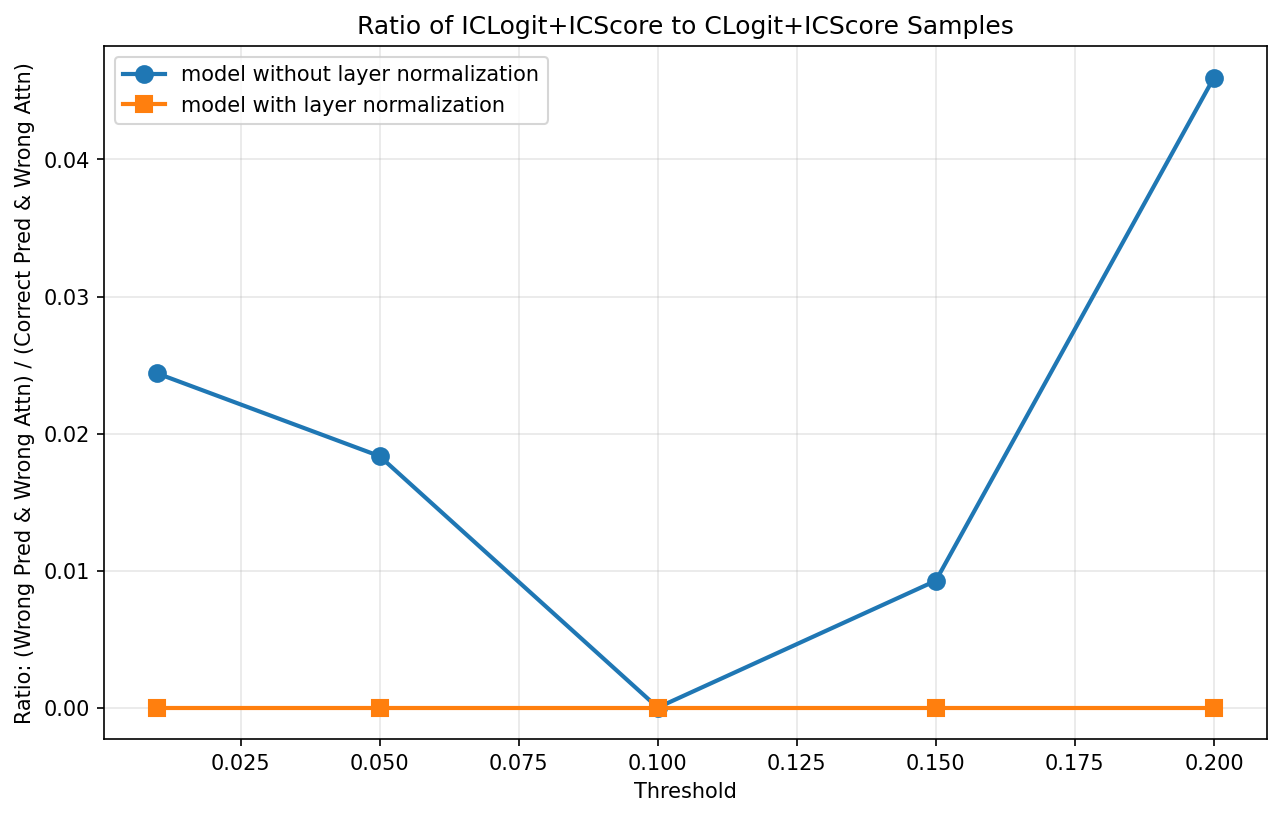
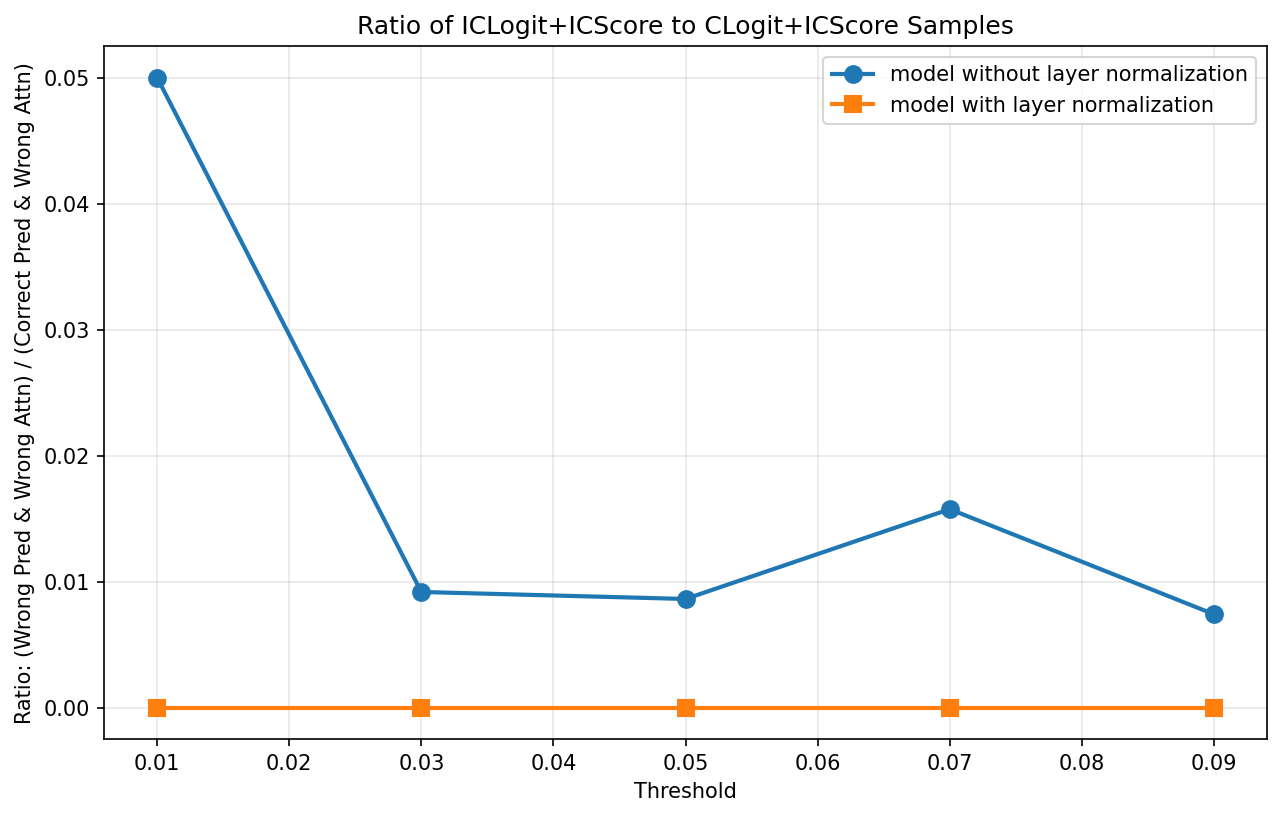
changes

diff --git a/intervention/intervention_per_intensity/compare_intensity.py b/intervention/intervention_per_intensity/compare_intensity.py
@@ -8,8 +8,6 @@ sys.path.insert(0, os.path.join(os.path.dirname(__file__), '..'))
 sys.path.insert(0, os.path.join(os.path.dirname(__file__), '../..'))
 
 from model_tbyt_4 import GPTConfig, GPT, GPTIntervention
-from checkpoint_utils import load_checkpoint
-from gpt_intervention_normalized import GPTInterventionNormalized
 import torch
 import matplotlib
 matplotlib.use('Agg')
@@ -33,9 +31,9 @@ vocab_size_1 = 128
 vocab_n_1 = vocab_size_1 - 1
 location_1 = 45
 
-config_1 = GPTConfig(block_size=block_size_1, vocab_size=vocab_size_1)
+config_1 = GPTConfig(block_size=block_size_1, vocab_size=vocab_size_1, with_layer_norm=False)
 model_1 = GPT(config_1)
-checkpoint_path_1 = os.path.join(os.path.dirname(__file__), '../../saved_models/dec28_tbyt_without-pos-embedding_n_embd:64_1head_layers:2_vocab_size:128_itr:60000_checkpoint.pt')
+checkpoint_path_1 = os.path.join(os.path.dirname(__file__), '../../saved_models/2026-03-14_18-40-26_vocab128/march14-withoutlayernorm-block_size:32-batch_size:4096-n_embd:64_head:1_layers:2_vocab_size:128_itr:60000_checkpoint.pt')
 model_1.load_state_dict(torch.load(checkpoint_path_1, map_location=device)['model'])
 model_1.to(device)
 model_1.eval()
@@ -75,13 +73,17 @@ print("\n" + "=" * 50)
 print("Testing model WITH layer normalization")
 print("=" * 50)
 
-checkpoint_path_2 = os.path.join(os.path.dirname(__file__), '../../Grid_training_without_duplicates/Final_N128_K16_L2_H1_E32_r4over1_npos1_mlp1_dup0_testK16_iters60000.pt')
-model_2, config_2 = load_checkpoint(checkpoint_path_2, device=device)
-model_2.eval()
-
-block_size_2 = config_2.block_size
-vocab_n_2 = config_2.vocab_size - 1
+block_size_2 = 32
+vocab_size_2 = 128
+vocab_n_2 = vocab_size_2 - 1
 location_2 = block_size_2 + 5
+
+config_2 = GPTConfig(block_size=block_size_2, vocab_size=vocab_size_2, with_layer_norm=True)
+model_2 = GPT(config_2)
+checkpoint_path_2 = os.path.join(os.path.dirname(__file__), '../../saved_models/2026-03-14_19-03-50_vocab128/march14-withlayernorm-block_size:32-batch_size:4096-n_embd:64_head:1_layers:2_vocab_size:128_itr:60000_checkpoint.pt')
+model_2.load_state_dict(torch.load(checkpoint_path_2, map_location=device)['model'])
+model_2.to(device)
+model_2.eval()
 
 def get_batch_2():
     x = torch.randperm(vocab_n_2)[:block_size_2]
@@ -96,7 +98,7 @@ for intensity in intensity_values:
             break
         idx = get_batch_2().to(device)
         try:
-            intervention_model = GPTInterventionNormalized(model_2, idx)
+            intervention_model = GPTIntervention(model_2, idx)
             intervention_model.intervent_attention(
                 attention_layer_num=0, location=location_2,
                 unsorted_lb=5, unsorted_ub=5, unsorted_lb_num=0, unsorted_ub_num=1,

diff --git a/next_num_statistics.py b/next_num_statistics.py
@@ -12,8 +12,12 @@ device = 'cuda'
 config = GPTConfig(block_size=block_size, vocab_size=vocab_size, without_pos=True)
 model = GPT(config)
 #model_state_dict = torch.load(os.path.join(os.getcwd(), f'saved_models/tbyt_1head_2_itr:{itr_num}_checkpoint_old.pt'), map_location=device)['model']
-model_state_dict = torch.load(os.path.join(os.getcwd(), f'saved_models/dec28_tbyt_without-pos-embedding_n_embd:64_1head_layers:2_vocab_size:128_itr:60000_checkpoint.pt'), map_location=device)['model']
+
+#model_state_dict = torch.load(os.path.join(os.getcwd(), f'saved_models/dec28_tbyt_without-pos-embedding_n_embd:64_1head_layers:2_vocab_size:128_itr:60000_checkpoint.pt'), map_location=device)['model']
+
 #model_state_dict = torch.load('./saved_models/tbyt_b64_v2048_embd16_1head_2_itr:20000_checkpoint.pt', map_location=device)['model']
+wlnorm = 'without'
+model_state_dict = torch.load(f'./saved_models/2026-03-14_18-40-26_vocab128/march14-{wlnorm}layernorm-block_size:32-batch_size:4096-n_embd:64_head:1_layers:2_vocab_size:128_itr:80000_checkpoint.pt', map_location=device)['model']
 model.load_state_dict(model_state_dict)
 model.to(device=device)
 
@@ -138,7 +142,7 @@ def get_statistics(thresholds, threshold_index):
     return count_perlocation, count_perthreshold, (clogit_cscore_perlocation, clogit_icscore_perlocation, iclogit_cscore_perlocation, iclogit_icscore_perlocation), (clogit_cscore_perthreshold, clogit_icscore_perthreshold, iclogit_cscore_perthreshold, iclogit_icscore_perthreshold), (average_dist_perlocation, max_dist_perlocation), (average_dist_perthreshold, max_dist_perthreshold)
 
 
-thresholds = [0.01, 0.05, 0.1, 0.15, 0.2]
+thresholds = [0.01, 0.03, 0.05, 0.07, 0.09]
 threshold_index = 0
 num_tries = 10
 ave_clogit_cscore_perthreshold = np.zeros(len(thresholds))
@@ -170,7 +174,8 @@ ave_count_perthreshold /= num_tries
 ave_count_perlocation /= num_tries
 
 # Save data to file for later comparison
-data_file = 'plots/statistics_data.npz'
+data_file = f'plots_{wlnorm}layernorm/statistics_data.npz'
+os.makedirs(f'plots_{wlnorm}layernorm', exist_ok=True)
 np.savez(data_file,
          thresholds=np.array(thresholds),
          ave_clogit_cscore_perthreshold=ave_clogit_cscore_perthreshold,

diff --git a/intervention/model_tbyt_4.py b/intervention/model_tbyt_4.py
@@ -255,6 +255,8 @@ class GPT(nn.Module):
         for block in self.transformer.h:
             x = block(x, layer_n)
             layer_n += 1
+        if self.config.with_layer_norm:
+            x = self.transformer.ln_f(x)
         logits = self.lm_head(x)
         
         #v_loss_measure = torch.func.vmap(self.loss_measure)
@@ -327,12 +329,14 @@ class GPTConfig():
     n_layers = 2
     n_heads = 1
     n_embd = 64
+    with_layer_norm: bool = False
 
-    def __init__(self, block_size=None, vocab_size=None):
+    def __init__(self, block_size=None, vocab_size=None, with_layer_norm=False):
         if block_size:
             self.block_size = block_size
         if vocab_size:
             self.vocab_size = vocab_size
+        self.with_layer_norm = with_layer_norm
 
     
 

diff --git a/compare_statistics.py b/compare_statistics.py
@@ -17,8 +17,8 @@ import matplotlib.pyplot as plt
 os.makedirs('plots_comparison', exist_ok=True)
 
 # Load data from both models
-data1 = np.load('plots/statistics_data.npz')  # Original model (dec28_tbyt)
-data2 = np.load('plots_N128_K16_L2_H1_E32/statistics_data.npz')  # Grid checkpoint (N128_K16_L2_H1_E32)
+data1 = np.load('plots_withoutlayernorm/statistics_data.npz')
+data2 = np.load('plots_withlayernorm/statistics_data.npz')
 
 # Use each file's own thresholds
 thresholds1 = data1['thresholds']

diff --git a/model_tbyt_3_withnormalization.py b/model_tbyt_3_withnormalization.py
@@ -40,7 +40,7 @@ class CausalSelfAttention(nn.Module):
 
         # Manual attention computation to store weights
         # Grid training uses F.scaled_dot_product_attention which uses standard 1.0 / sqrt(head_dim)
-        scale = 1.0 / math.sqrt(self.head_dim)
+        scale = 0.1 / math.sqrt(self.head_dim)
         attn = (q @ k.transpose(-2, -1)) * scale
         
         # Causal mask
